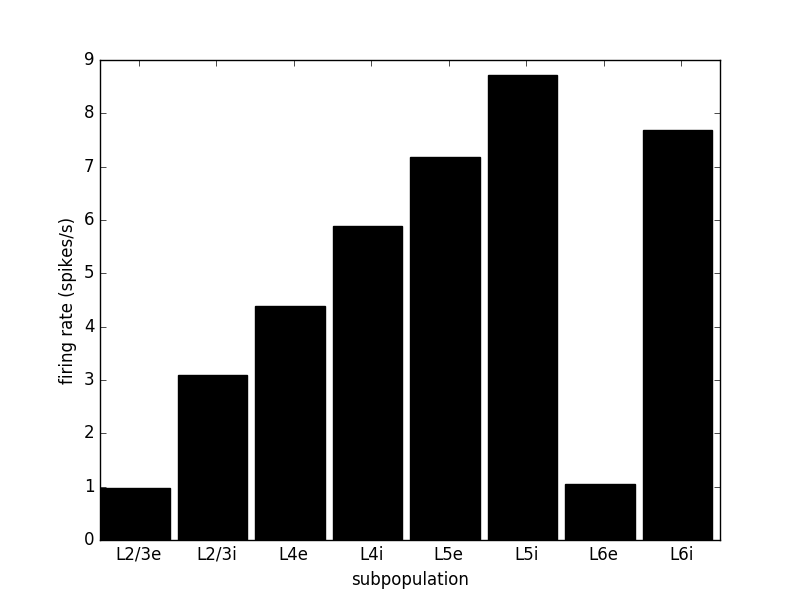
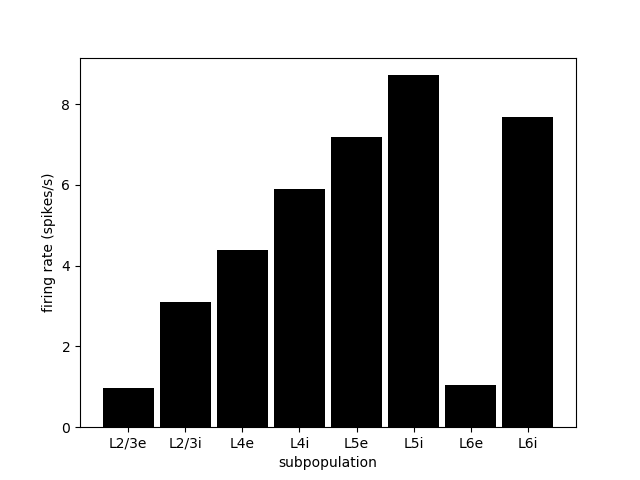
Update Nest SLI comparison

diff --git a/NEST_SLI/spike_analysis.py b/NEST_SLI/spike_analysis.py
@@ -171,7 +171,7 @@ for j in np.arange(num_pops):
     for i in np.arange(first_gids[j], first_gids[j] + rec_sizes[j]):
         plt.plot(neuron_spikes[i],
                  np.ones_like(neuron_spikes[i]) + sum(rec_sizes) - counter,
-                 'k o', ms=1, mfc=clrs[j], mec=clrs[j])
+                 'k o', ms=.5, mfc=clrs[j], mec=clrs[j])
         counter += 1
 plt.xlim(0, T - T_start)
 plt.ylim(0, sum(rec_sizes))
@@ -198,7 +198,7 @@ plt.figure(2)
 ticks = np.arange(num_pops)
 plt.bar(ticks, rates, width=0.9, color='k')
 xticklabels = ['L2/3e', 'L2/3i', 'L4e', 'L4i', 'L5e', 'L5i', 'L6e', 'L6i']
-plt.setp(plt.gca(), xticks=ticks + 0.5, xticklabels=xticklabels)
+plt.setp(plt.gca(), xticks=ticks, xticklabels=xticklabels)
 plt.xlabel(r'subpopulation')
 plt.ylabel(r'firing rate (spikes/s)')
 plt.savefig(os.path.join(datapath, 'firing_rates.png'))

diff --git a/Comparison.md b/Comparison.md
@@ -1,9 +1,21 @@
 ## Comparison of model behaviour across implementations
 
-#### NEST SLI
+### NEST SLI
 
-The model was originally implemented in NEST SLI format.
+The model was originally implemented in [NEST SLI format](/NEST_SLI) (taken from [here](https://github.com/nest/nest-simulator/tree/master/examples/nest/Potjans_2014)). 
 
+**10% scaled down version**
+
+Note 1: 10% of cells recorded & plotted on left.<br/>
+Note 2: rasterplot includes first 200ms to enable comparison between implementations at startup, but firing rates are calculated on 200-1000ms.
+<table>
+<tr>
+<td><img alt="NEST SLI raster" src="images/nestsli_rasterplot_0.1.png" height="300"/></td>
+<td><img alt="NEST SLI firing rates" src="images/nestsli_firing_rates_0.1.png" height="300"/></td>
+</tr>
+</table>
+
+**100% scale version**
 <table>
 <tr>
 <td><img alt="NEST SLI raster" src="images/nestsli_rasterplot_1.0.png" height="300"/></td>
@@ -11,7 +23,8 @@ The model was originally implemented in NEST SLI format.
 </tr>
 </table>
 
-#### PyNEST
+
+### PyNEST
 
 <table>
 <tr>
@@ -20,7 +33,7 @@ The model was originally implemented in NEST SLI format.
 </tr>
 </table>
 
-#### PyNN: NEST
+### PyNN: NEST
 
 <table>
 <tr>

diff --git a/NEST_SLI/README.md b/NEST_SLI/README.md
@@ -27,6 +27,7 @@ sensory cortex published by [Potjans and Diesmann (2014)](http://www.ncbi.nlm.ni
 The cell-type specific cortical microcircuit: relating structure and activity in a full-scale spiking
 network model. Cerebral Cortex: doi:10.1093/cercor/bhs358.
 
+(NOTE: there is another copy of these model files here: https://github.com/nest/nest-simulator/tree/master/examples/nest/Potjans_2014)
 
 ### Files:
 
